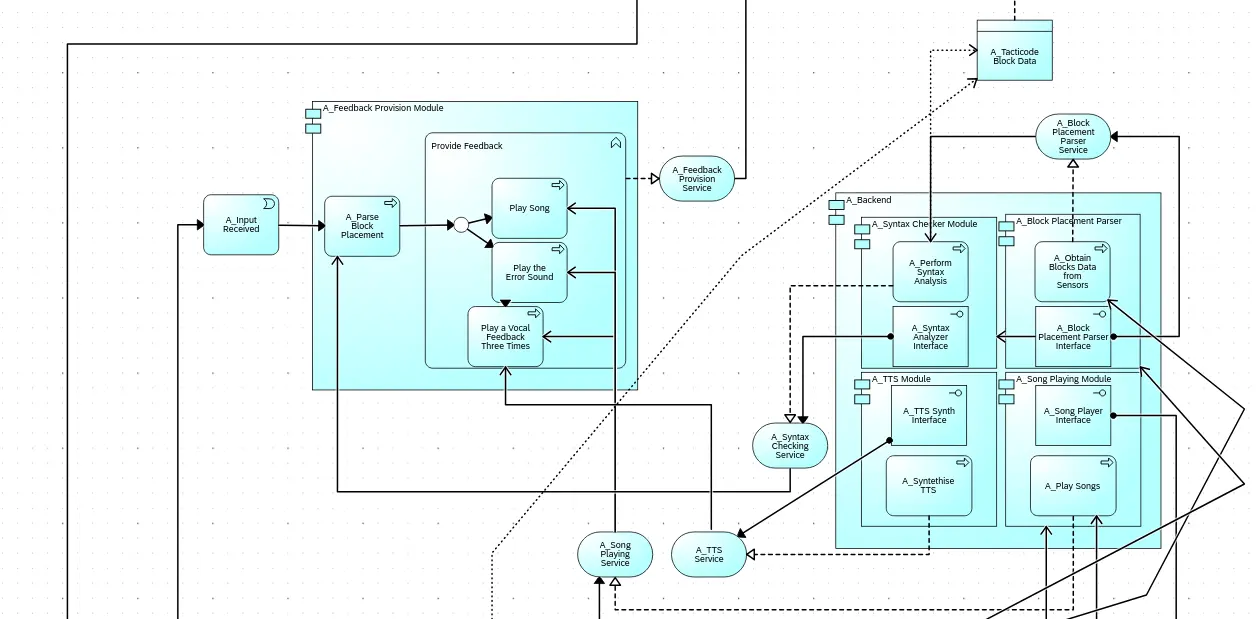
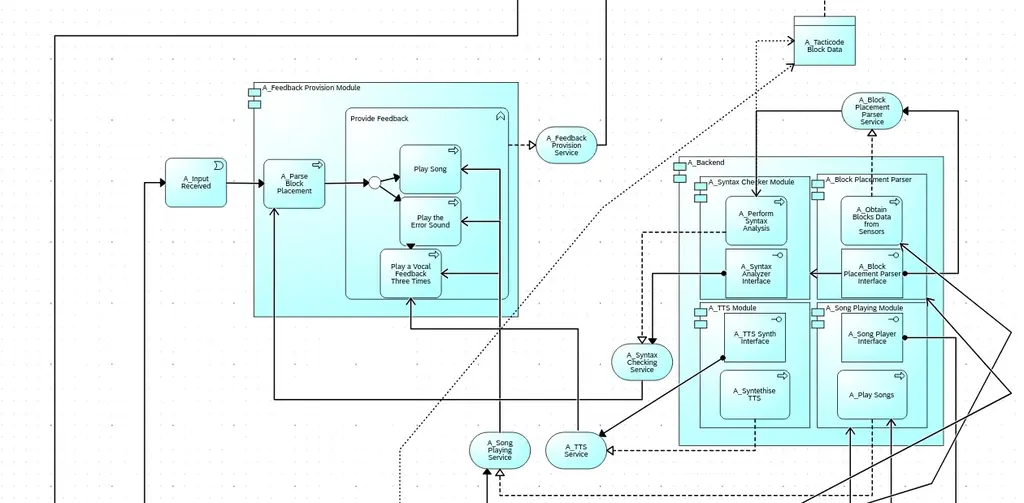
Iris Vavilov images fixed

diff --git a/website/versioned_docs/version-fils_en/project/2026/iris_alexandra.vavilov/index.md b/website/versioned_docs/version-fils_en/project/2026/iris_alexandra.vavilov/index.md
@@ -4,7 +4,7 @@ A physical programming interface allowing visually impaired children to learn al
 :::info 
 
 **Author**: Iris-Alexandra Vavilov \
-**GitHub Project Link**: link_to_github
+**GitHub Project Link**: [link_to_github](https://github.com/UPB-PMRust-Students/fils-project-2026-unirisel)
 
 :::
 
@@ -18,7 +18,7 @@ As a part-time teacher, I faced the challenge of making classroom lessons intera
 
 ## Architecture 
 
-[Full Architecture](./Architecture.pdf)
+![Entire Architecture](./Tacticode%20Enterprise%20Architecture.svg)
 
 ![Business Layer](./business.webp) 
 The Archimate Business Layer describes the main interaction of the actors: the Children and the Teachers.
@@ -27,7 +27,7 @@ The main business function that the B Children will perform is described through
 ![Application Layer](./application.webp)
 The application Layer is split into two components: the Frontend :  "A Feedback Provision Module". This module role is to trigger the "Backend" processing of the sensor data, syntax analysis, and sound playing and TTS synthesis. All the modules in the backend component are decoupled and provide their interfaces as well as realise their services. This ensures hardware and conversely software agnosticism. Further, the software will interface with hardware through APIs and the Embedded HAL APIs
 
-![Technology Layer](./teknologia.webp)
+![Technology Layer](./technology.webp)
 We will have a single node, represented through the "T Tacticode" Node which hosts the single dev board - an ESP32S3. Further details in the picture.
 
 
@@ -78,5 +78,6 @@ The physical components involve a custom PCB reading track, 3D-printed interlock
 
 ## Links
 
-1. [link](https://example.com)
-2. [link](https://example3.com)
+1. [Scratch Foundation Inspo](https://www.scratchfoundation.org/learn/learning-library/physical-computing-with-scratch-makey-makey)
+2. [Google Research for making code physical](https://research.google/blog/project-bloks-making-code-physical-for-kids/)
+3. [Ghana introduces physical coding lego blocks](https://www.physical3dscratchblocks.org/)